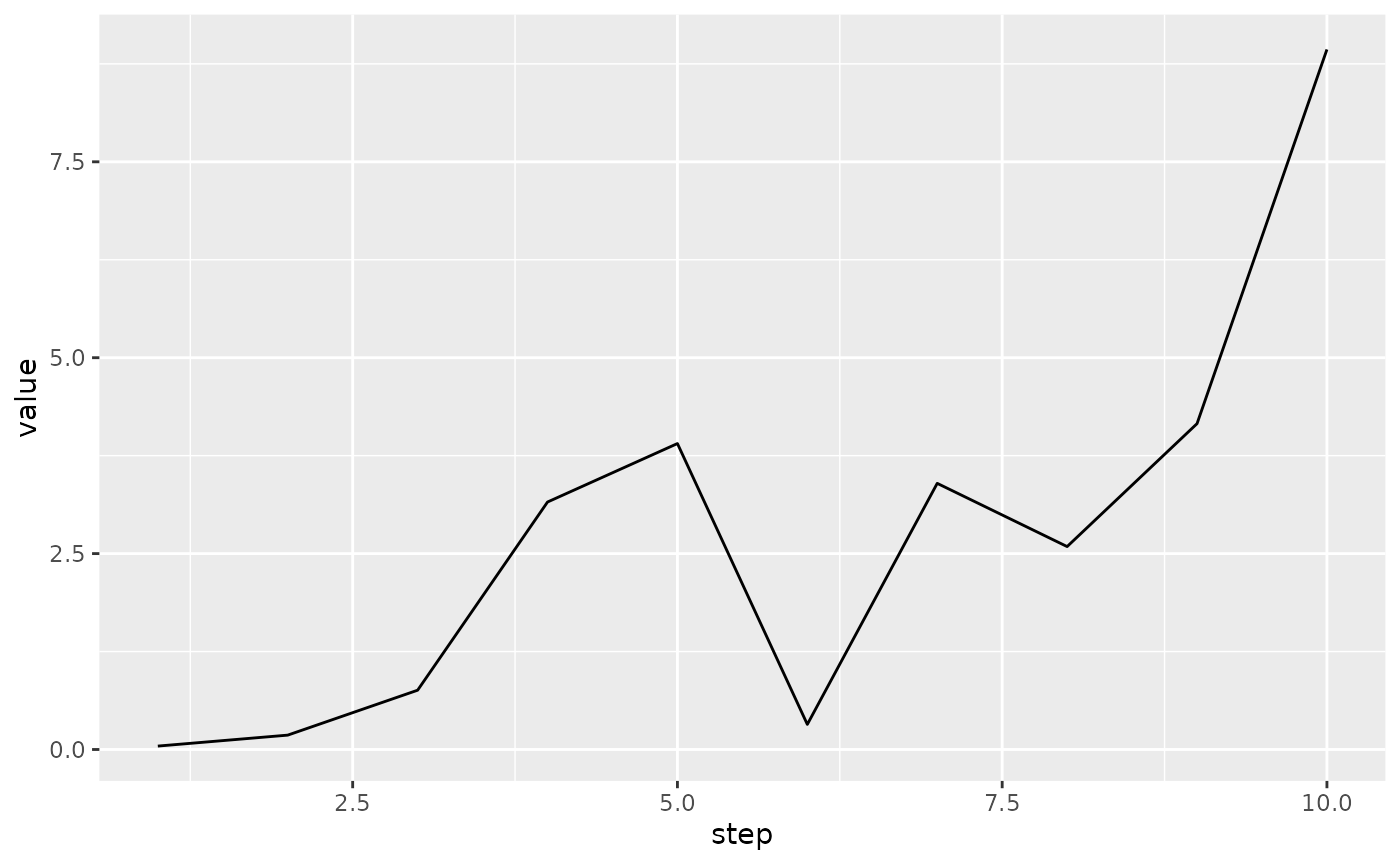
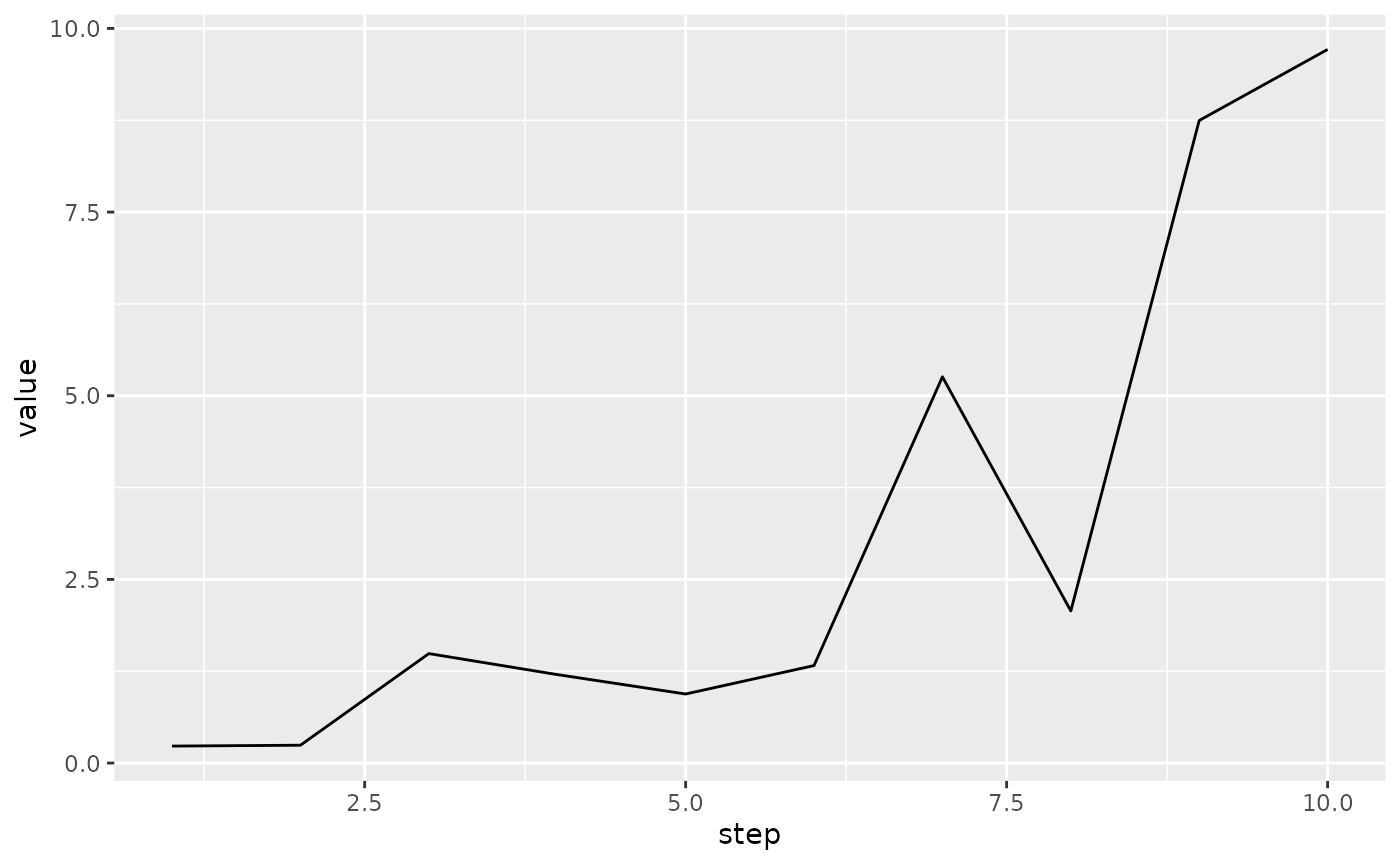
Deploying to gh-pages from @ mlverse/tfevents@5b67061c146f574ae64d9266ff5c2414bdc8fd5a 🚀

diff --git a/articles/read.html b/articles/read.html
@@ -178,52 +178,52 @@ matter the size of the summary_values vector that you pass.</p>
 <code class="sourceCode R"><span><span class="co"># we remove the first summary, as it's a text summary</span></span>
 <span><span class="fu"><a href="../reference/value.html">value</a></span><span class="op">(</span><span class="va">summaries</span><span class="op">$</span><span class="va">summary</span><span class="op">[</span><span class="op">-</span><span class="fl">1</span><span class="op">]</span>, as_list <span class="op">=</span> <span class="cn">TRUE</span><span class="op">)</span></span>
 <span><span class="co">#&gt; [[1]]</span></span>
-<span><span class="co">#&gt; [1] 0.04355804</span></span>
+<span><span class="co">#&gt; [1] 0.2312333</span></span>
 <span><span class="co">#&gt; </span></span>
 <span><span class="co">#&gt; [[2]]</span></span>
-<span><span class="co">#&gt; [1] 0.1833028</span></span>
+<span><span class="co">#&gt; [1] 0.2428884</span></span>
 <span><span class="co">#&gt; </span></span>
 <span><span class="co">#&gt; [[3]]</span></span>
-<span><span class="co">#&gt; [1] 0.7566165</span></span>
+<span><span class="co">#&gt; [1] 1.490276</span></span>
 <span><span class="co">#&gt; </span></span>
 <span><span class="co">#&gt; [[4]]</span></span>
-<span><span class="co">#&gt; [1] 3.158254</span></span>
+<span><span class="co">#&gt; [1] 1.204388</span></span>
 <span><span class="co">#&gt; </span></span>
 <span><span class="co">#&gt; [[5]]</span></span>
-<span><span class="co">#&gt; [1] 3.904415</span></span>
+<span><span class="co">#&gt; [1] 0.9399371</span></span>
 <span><span class="co">#&gt; </span></span>
 <span><span class="co">#&gt; [[6]]</span></span>
-<span><span class="co">#&gt; [1] 0.3203383</span></span>
+<span><span class="co">#&gt; [1] 1.327205</span></span>
 <span><span class="co">#&gt; </span></span>
 <span><span class="co">#&gt; [[7]]</span></span>
-<span><span class="co">#&gt; [1] 3.396516</span></span>
+<span><span class="co">#&gt; [1] 5.257648</span></span>
 <span><span class="co">#&gt; </span></span>
 <span><span class="co">#&gt; [[8]]</span></span>
-<span><span class="co">#&gt; [1] 2.589681</span></span>
+<span><span class="co">#&gt; [1] 2.070571</span></span>
 <span><span class="co">#&gt; </span></span>
 <span><span class="co">#&gt; [[9]]</span></span>
-<span><span class="co">#&gt; [1] 4.158386</span></span>
+<span><span class="co">#&gt; [1] 8.746647</span></span>
 <span><span class="co">#&gt; </span></span>
 <span><span class="co">#&gt; [[10]]</span></span>
-<span><span class="co">#&gt; [1] 8.934026</span></span></code></pre></div>
+<span><span class="co">#&gt; [1] 9.71382</span></span></code></pre></div>
 <p>If you are only interested in scalar summaries, you can use
 <code>type="scalar"</code> in <code>collect_events</code>:</p>
 <div class="sourceCode" id="cb8"><pre class="downlit sourceCode r">
 <code class="sourceCode R"><span><span class="va">scalars</span> <span class="op">&lt;-</span> <span class="fu"><a href="../reference/collect_events.html">collect_events</a></span><span class="op">(</span><span class="va">temp</span>, type <span class="op">=</span> <span class="st">"scalar"</span><span class="op">)</span></span>
 <span><span class="va">scalars</span></span>
 <span><span class="co">#&gt; <span style="color: #949494;"># A tibble: 10 × 7</span></span></span>
-<span><span class="co">#&gt;         event run    step    summary tag   plugin   value</span></span>
-<span><span class="co">#&gt;    <span style="color: #949494; font-style: italic;">&lt;tfvnts_v&gt;</span> <span style="color: #949494; font-style: italic;">&lt;chr&gt;</span> <span style="color: #949494; font-style: italic;">&lt;int&gt;</span> <span style="color: #949494; font-style: italic;">&lt;tfvnts__&gt;</span> <span style="color: #949494; font-style: italic;">&lt;chr&gt;</span> <span style="color: #949494; font-style: italic;">&lt;chr&gt;</span>    <span style="color: #949494; font-style: italic;">&lt;dbl&gt;</span></span></span>
-<span><span class="co">#&gt; <span style="color: #BCBCBC;"> 1</span>     &lt;./ 1&gt; .         1    &lt;hello&gt; hello scalars 0.043<span style="text-decoration: underline;">6</span></span></span>
-<span><span class="co">#&gt; <span style="color: #BCBCBC;"> 2</span>     &lt;./ 2&gt; .         2    &lt;hello&gt; hello scalars 0.183 </span></span>
-<span><span class="co">#&gt; <span style="color: #BCBCBC;"> 3</span>     &lt;./ 3&gt; .         3    &lt;hello&gt; hello scalars 0.757 </span></span>
-<span><span class="co">#&gt; <span style="color: #BCBCBC;"> 4</span>     &lt;./ 4&gt; .         4    &lt;hello&gt; hello scalars 3.16  </span></span>
-<span><span class="co">#&gt; <span style="color: #BCBCBC;"> 5</span>     &lt;./ 5&gt; .         5    &lt;hello&gt; hello scalars 3.90  </span></span>
-<span><span class="co">#&gt; <span style="color: #BCBCBC;"> 6</span>     &lt;./ 6&gt; .         6    &lt;hello&gt; hello scalars 0.320 </span></span>
-<span><span class="co">#&gt; <span style="color: #BCBCBC;"> 7</span>     &lt;./ 7&gt; .         7    &lt;hello&gt; hello scalars 3.40  </span></span>
-<span><span class="co">#&gt; <span style="color: #BCBCBC;"> 8</span>     &lt;./ 8&gt; .         8    &lt;hello&gt; hello scalars 2.59  </span></span>
-<span><span class="co">#&gt; <span style="color: #BCBCBC;"> 9</span>     &lt;./ 9&gt; .         9    &lt;hello&gt; hello scalars 4.16  </span></span>
-<span><span class="co">#&gt; <span style="color: #BCBCBC;">10</span>     &lt;./10&gt; .        10    &lt;hello&gt; hello scalars 8.93</span></span></code></pre></div>
+<span><span class="co">#&gt;         event run    step    summary tag   plugin  value</span></span>
+<span><span class="co">#&gt;    <span style="color: #949494; font-style: italic;">&lt;tfvnts_v&gt;</span> <span style="color: #949494; font-style: italic;">&lt;chr&gt;</span> <span style="color: #949494; font-style: italic;">&lt;int&gt;</span> <span style="color: #949494; font-style: italic;">&lt;tfvnts__&gt;</span> <span style="color: #949494; font-style: italic;">&lt;chr&gt;</span> <span style="color: #949494; font-style: italic;">&lt;chr&gt;</span>   <span style="color: #949494; font-style: italic;">&lt;dbl&gt;</span></span></span>
+<span><span class="co">#&gt; <span style="color: #BCBCBC;"> 1</span>     &lt;./ 1&gt; .         1    &lt;hello&gt; hello scalars 0.231</span></span>
+<span><span class="co">#&gt; <span style="color: #BCBCBC;"> 2</span>     &lt;./ 2&gt; .         2    &lt;hello&gt; hello scalars 0.243</span></span>
+<span><span class="co">#&gt; <span style="color: #BCBCBC;"> 3</span>     &lt;./ 3&gt; .         3    &lt;hello&gt; hello scalars 1.49 </span></span>
+<span><span class="co">#&gt; <span style="color: #BCBCBC;"> 4</span>     &lt;./ 4&gt; .         4    &lt;hello&gt; hello scalars 1.20 </span></span>
+<span><span class="co">#&gt; <span style="color: #BCBCBC;"> 5</span>     &lt;./ 5&gt; .         5    &lt;hello&gt; hello scalars 0.940</span></span>
+<span><span class="co">#&gt; <span style="color: #BCBCBC;"> 6</span>     &lt;./ 6&gt; .         6    &lt;hello&gt; hello scalars 1.33 </span></span>
+<span><span class="co">#&gt; <span style="color: #BCBCBC;"> 7</span>     &lt;./ 7&gt; .         7    &lt;hello&gt; hello scalars 5.26 </span></span>
+<span><span class="co">#&gt; <span style="color: #BCBCBC;"> 8</span>     &lt;./ 8&gt; .         8    &lt;hello&gt; hello scalars 2.07 </span></span>
+<span><span class="co">#&gt; <span style="color: #BCBCBC;"> 9</span>     &lt;./ 9&gt; .         9    &lt;hello&gt; hello scalars 8.75 </span></span>
+<span><span class="co">#&gt; <span style="color: #BCBCBC;">10</span>     &lt;./10&gt; .        10    &lt;hello&gt; hello scalars 9.71</span></span></code></pre></div>
 <p>Now, values can be expanded in the data frame and you get a ready to
 use data frame, for example:</p>
 <div class="sourceCode" id="cb9"><pre class="downlit sourceCode r">
@@ -244,9 +244,9 @@ load events in smaller batches.</p>
 <code class="sourceCode R"><span><span class="va">con</span> <span class="op">&lt;-</span> <span class="fu"><a href="../reference/collect_events.html">events_logdir</a></span><span class="op">(</span><span class="va">temp</span><span class="op">)</span></span>
 <span><span class="fu"><a href="../reference/collect_events.html">collect_events</a></span><span class="op">(</span><span class="va">con</span>, n <span class="op">=</span> <span class="fl">1</span>, type <span class="op">=</span> <span class="st">"scalar"</span><span class="op">)</span></span>
 <span><span class="co">#&gt; <span style="color: #949494;"># A tibble: 1 × 7</span></span></span>
-<span><span class="co">#&gt;        event run    step    summary tag   plugin   value</span></span>
-<span><span class="co">#&gt;   <span style="color: #949494; font-style: italic;">&lt;tfvnts_v&gt;</span> <span style="color: #949494; font-style: italic;">&lt;chr&gt;</span> <span style="color: #949494; font-style: italic;">&lt;int&gt;</span> <span style="color: #949494; font-style: italic;">&lt;tfvnts__&gt;</span> <span style="color: #949494; font-style: italic;">&lt;chr&gt;</span> <span style="color: #949494; font-style: italic;">&lt;chr&gt;</span>    <span style="color: #949494; font-style: italic;">&lt;dbl&gt;</span></span></span>
-<span><span class="co">#&gt; <span style="color: #BCBCBC;">1</span>      &lt;./1&gt; .         1    &lt;hello&gt; hello scalars 0.043<span style="text-decoration: underline;">6</span></span></span></code></pre></div>
+<span><span class="co">#&gt;        event run    step    summary tag   plugin  value</span></span>
+<span><span class="co">#&gt;   <span style="color: #949494; font-style: italic;">&lt;tfvnts_v&gt;</span> <span style="color: #949494; font-style: italic;">&lt;chr&gt;</span> <span style="color: #949494; font-style: italic;">&lt;int&gt;</span> <span style="color: #949494; font-style: italic;">&lt;tfvnts__&gt;</span> <span style="color: #949494; font-style: italic;">&lt;chr&gt;</span> <span style="color: #949494; font-style: italic;">&lt;chr&gt;</span>   <span style="color: #949494; font-style: italic;">&lt;dbl&gt;</span></span></span>
+<span><span class="co">#&gt; <span style="color: #BCBCBC;">1</span>      &lt;./1&gt; .         1    &lt;hello&gt; hello scalars 0.231</span></span></code></pre></div>
 <p>Notice that the first call to <code>collect_events</code> collected
 the first scalar summary event in the directory because of
 <code>n = 1</code>. The next call will collect the remaining ones as by
@@ -256,15 +256,15 @@ default <code>n = NULL</code>.</p>
 <span><span class="co">#&gt; <span style="color: #949494;"># A tibble: 9 × 7</span></span></span>
 <span><span class="co">#&gt;        event run    step    summary tag   plugin  value</span></span>
 <span><span class="co">#&gt;   <span style="color: #949494; font-style: italic;">&lt;tfvnts_v&gt;</span> <span style="color: #949494; font-style: italic;">&lt;chr&gt;</span> <span style="color: #949494; font-style: italic;">&lt;int&gt;</span> <span style="color: #949494; font-style: italic;">&lt;tfvnts__&gt;</span> <span style="color: #949494; font-style: italic;">&lt;chr&gt;</span> <span style="color: #949494; font-style: italic;">&lt;chr&gt;</span>   <span style="color: #949494; font-style: italic;">&lt;dbl&gt;</span></span></span>
-<span><span class="co">#&gt; <span style="color: #BCBCBC;">1</span>     &lt;./ 2&gt; .         2    &lt;hello&gt; hello scalars 0.183</span></span>
-<span><span class="co">#&gt; <span style="color: #BCBCBC;">2</span>     &lt;./ 3&gt; .         3    &lt;hello&gt; hello scalars 0.757</span></span>
-<span><span class="co">#&gt; <span style="color: #BCBCBC;">3</span>     &lt;./ 4&gt; .         4    &lt;hello&gt; hello scalars 3.16 </span></span>
-<span><span class="co">#&gt; <span style="color: #BCBCBC;">4</span>     &lt;./ 5&gt; .         5    &lt;hello&gt; hello scalars 3.90 </span></span>
-<span><span class="co">#&gt; <span style="color: #BCBCBC;">5</span>     &lt;./ 6&gt; .         6    &lt;hello&gt; hello scalars 0.320</span></span>
-<span><span class="co">#&gt; <span style="color: #BCBCBC;">6</span>     &lt;./ 7&gt; .         7    &lt;hello&gt; hello scalars 3.40 </span></span>
-<span><span class="co">#&gt; <span style="color: #BCBCBC;">7</span>     &lt;./ 8&gt; .         8    &lt;hello&gt; hello scalars 2.59 </span></span>
-<span><span class="co">#&gt; <span style="color: #BCBCBC;">8</span>     &lt;./ 9&gt; .         9    &lt;hello&gt; hello scalars 4.16 </span></span>
-<span><span class="co">#&gt; <span style="color: #BCBCBC;">9</span>     &lt;./10&gt; .        10    &lt;hello&gt; hello scalars 8.93</span></span></code></pre></div>
+<span><span class="co">#&gt; <span style="color: #BCBCBC;">1</span>     &lt;./ 2&gt; .         2    &lt;hello&gt; hello scalars 0.243</span></span>
+<span><span class="co">#&gt; <span style="color: #BCBCBC;">2</span>     &lt;./ 3&gt; .         3    &lt;hello&gt; hello scalars 1.49 </span></span>
+<span><span class="co">#&gt; <span style="color: #BCBCBC;">3</span>     &lt;./ 4&gt; .         4    &lt;hello&gt; hello scalars 1.20 </span></span>
+<span><span class="co">#&gt; <span style="color: #BCBCBC;">4</span>     &lt;./ 5&gt; .         5    &lt;hello&gt; hello scalars 0.940</span></span>
+<span><span class="co">#&gt; <span style="color: #BCBCBC;">5</span>     &lt;./ 6&gt; .         6    &lt;hello&gt; hello scalars 1.33 </span></span>
+<span><span class="co">#&gt; <span style="color: #BCBCBC;">6</span>     &lt;./ 7&gt; .         7    &lt;hello&gt; hello scalars 5.26 </span></span>
+<span><span class="co">#&gt; <span style="color: #BCBCBC;">7</span>     &lt;./ 8&gt; .         8    &lt;hello&gt; hello scalars 2.07 </span></span>
+<span><span class="co">#&gt; <span style="color: #BCBCBC;">8</span>     &lt;./ 9&gt; .         9    &lt;hello&gt; hello scalars 8.75 </span></span>
+<span><span class="co">#&gt; <span style="color: #BCBCBC;">9</span>     &lt;./10&gt; .        10    &lt;hello&gt; hello scalars 9.71</span></span></code></pre></div>
 <p>We can now log some more scalars and recollect, you will see that the
 events that were just written are now collected.</p>
 <div class="sourceCode" id="cb12"><pre class="downlit sourceCode r">
@@ -275,9 +275,9 @@ events that were just written are now collected.</p>
 <span><span class="co">#&gt; <span style="color: #949494;"># A tibble: 3 × 7</span></span></span>
 <span><span class="co">#&gt;        event run    step    summary tag   plugin  value</span></span>
 <span><span class="co">#&gt;   <span style="color: #949494; font-style: italic;">&lt;tfvnts_v&gt;</span> <span style="color: #949494; font-style: italic;">&lt;chr&gt;</span> <span style="color: #949494; font-style: italic;">&lt;int&gt;</span> <span style="color: #949494; font-style: italic;">&lt;tfvnts__&gt;</span> <span style="color: #949494; font-style: italic;">&lt;chr&gt;</span> <span style="color: #949494; font-style: italic;">&lt;chr&gt;</span>   <span style="color: #949494; font-style: italic;">&lt;dbl&gt;</span></span></span>
-<span><span class="co">#&gt; <span style="color: #BCBCBC;">1</span>     &lt;./11&gt; .        11    &lt;hello&gt; hello scalars 0.302</span></span>
-<span><span class="co">#&gt; <span style="color: #BCBCBC;">2</span>     &lt;./12&gt; .        12    &lt;hello&gt; hello scalars 0.115</span></span>
-<span><span class="co">#&gt; <span style="color: #BCBCBC;">3</span>     &lt;./13&gt; .        13    &lt;hello&gt; hello scalars 1.08</span></span></code></pre></div>
+<span><span class="co">#&gt; <span style="color: #BCBCBC;">1</span>     &lt;./11&gt; .        11    &lt;hello&gt; hello scalars 0.832</span></span>
+<span><span class="co">#&gt; <span style="color: #BCBCBC;">2</span>     &lt;./12&gt; .        12    &lt;hello&gt; hello scalars 0.419</span></span>
+<span><span class="co">#&gt; <span style="color: #BCBCBC;">3</span>     &lt;./13&gt; .        13    &lt;hello&gt; hello scalars 0.642</span></span></code></pre></div>
 <p>This interface allows you to efficiently read tfevents records
 without having them all on RAM at once, or work in a streaming way in a
 sense that a process might be writing tfevents (for example in a

diff --git a/articles/hparams.html b/articles/hparams.html
@@ -197,80 +197,80 @@ sets of hyperparameters.</p>
 <code>temp</code> will be filled with event files.</p>
 <div class="sourceCode" id="cb7"><pre class="downlit sourceCode r">
 <code class="sourceCode R"><span><span class="fu">fs</span><span class="fu">::</span><span class="fu"><a href="https://fs.r-lib.org/reference/dir_tree.html" class="external-link">dir_tree</a></span><span class="op">(</span><span class="va">temp</span><span class="op">)</span></span>
-<span><span class="co">#&gt; <span style="color: #0000BB; font-weight: bold;">/tmp/RtmprtTTw2/logdir1b3f76f87a47</span></span></span>
-<span><span class="co">#&gt; ├── <span style="color: #0000BB; font-weight: bold;">abmfkiphrpevdqq</span></span></span>
-<span><span class="co">#&gt; │   ├── events.out.tfevents.1676371809.v2</span></span>
+<span><span class="co">#&gt; <span style="color: #0000BB; font-weight: bold;">/tmp/RtmpdwRrPv/logdir212c2596d3df</span></span></span>
+<span><span class="co">#&gt; ├── <span style="color: #0000BB; font-weight: bold;">ddhgqwaunyhwjzc</span></span></span>
+<span><span class="co">#&gt; │   ├── events.out.tfevents.1677150685.v2</span></span>
 <span><span class="co">#&gt; │   ├── <span style="color: #0000BB; font-weight: bold;">train</span></span></span>
-<span><span class="co">#&gt; │   │   └── events.out.tfevents.1676371809.v2</span></span>
+<span><span class="co">#&gt; │   │   └── events.out.tfevents.1677150685.v2</span></span>
 <span><span class="co">#&gt; │   └── <span style="color: #0000BB; font-weight: bold;">valid</span></span></span>
-<span><span class="co">#&gt; │       └── events.out.tfevents.1676371809.v2</span></span>
-<span><span class="co">#&gt; ├── <span style="color: #0000BB; font-weight: bold;">bnrkdcnjwcqxktt</span></span></span>
-<span><span class="co">#&gt; │   ├── events.out.tfevents.1676371809.v2</span></span>
+<span><span class="co">#&gt; │       └── events.out.tfevents.1677150685.v2</span></span>
+<span><span class="co">#&gt; ├── events.out.tfevents.1677150683.v2</span></span>
+<span><span class="co">#&gt; ├── <span style="color: #0000BB; font-weight: bold;">exvuikegqsvarjt</span></span></span>
+<span><span class="co">#&gt; │   ├── events.out.tfevents.1677150684.v2</span></span>
 <span><span class="co">#&gt; │   ├── <span style="color: #0000BB; font-weight: bold;">train</span></span></span>
-<span><span class="co">#&gt; │   │   └── events.out.tfevents.1676371809.v2</span></span>
+<span><span class="co">#&gt; │   │   └── events.out.tfevents.1677150684.v2</span></span>
 <span><span class="co">#&gt; │   └── <span style="color: #0000BB; font-weight: bold;">valid</span></span></span>
-<span><span class="co">#&gt; │       └── events.out.tfevents.1676371809.v2</span></span>
-<span><span class="co">#&gt; ├── <span style="color: #0000BB; font-weight: bold;">bwekgamzmprqnib</span></span></span>
-<span><span class="co">#&gt; │   ├── events.out.tfevents.1676371809.v2</span></span>
+<span><span class="co">#&gt; │       └── events.out.tfevents.1677150684.v2</span></span>
+<span><span class="co">#&gt; ├── <span style="color: #0000BB; font-weight: bold;">hglhuizmjijfoov</span></span></span>
+<span><span class="co">#&gt; │   ├── events.out.tfevents.1677150684.v2</span></span>
 <span><span class="co">#&gt; │   ├── <span style="color: #0000BB; font-weight: bold;">train</span></span></span>
-<span><span class="co">#&gt; │   │   └── events.out.tfevents.1676371809.v2</span></span>
+<span><span class="co">#&gt; │   │   └── events.out.tfevents.1677150684.v2</span></span>
 <span><span class="co">#&gt; │   └── <span style="color: #0000BB; font-weight: bold;">valid</span></span></span>
-<span><span class="co">#&gt; │       └── events.out.tfevents.1676371809.v2</span></span>
-<span><span class="co">#&gt; ├── <span style="color: #0000BB; font-weight: bold;">ekxafwxrcrviani</span></span></span>
-<span><span class="co">#&gt; │   ├── events.out.tfevents.1676371808.v2</span></span>
+<span><span class="co">#&gt; │       └── events.out.tfevents.1677150684.v2</span></span>
+<span><span class="co">#&gt; ├── <span style="color: #0000BB; font-weight: bold;">hmtwnmqoqeyugbh</span></span></span>
+<span><span class="co">#&gt; │   ├── events.out.tfevents.1677150684.v2</span></span>
 <span><span class="co">#&gt; │   ├── <span style="color: #0000BB; font-weight: bold;">train</span></span></span>
-<span><span class="co">#&gt; │   │   └── events.out.tfevents.1676371808.v2</span></span>
+<span><span class="co">#&gt; │   │   └── events.out.tfevents.1677150684.v2</span></span>
 <span><span class="co">#&gt; │   └── <span style="color: #0000BB; font-weight: bold;">valid</span></span></span>
-<span><span class="co">#&gt; │       └── events.out.tfevents.1676371808.v2</span></span>
-<span><span class="co">#&gt; ├── events.out.tfevents.1676371808.v2</span></span>
-<span><span class="co">#&gt; ├── <span style="color: #0000BB; font-weight: bold;">ewezkfgwfamrqjd</span></span></span>
-<span><span class="co">#&gt; │   ├── events.out.tfevents.1676371809.v2</span></span>
+<span><span class="co">#&gt; │       └── events.out.tfevents.1677150684.v2</span></span>
+<span><span class="co">#&gt; ├── <span style="color: #0000BB; font-weight: bold;">jwvntztstbmxnbp</span></span></span>
+<span><span class="co">#&gt; │   ├── events.out.tfevents.1677150683.v2</span></span>
 <span><span class="co">#&gt; │   ├── <span style="color: #0000BB; font-weight: bold;">train</span></span></span>
-<span><span class="co">#&gt; │   │   └── events.out.tfevents.1676371809.v2</span></span>
+<span><span class="co">#&gt; │   │   └── events.out.tfevents.1677150683.v2</span></span>
 <span><span class="co">#&gt; │   └── <span style="color: #0000BB; font-weight: bold;">valid</span></span></span>
-<span><span class="co">#&gt; │       └── events.out.tfevents.1676371809.v2</span></span>
-<span><span class="co">#&gt; ├── <span style="color: #0000BB; font-weight: bold;">qahkznejlvgdhlb</span></span></span>
-<span><span class="co">#&gt; │   ├── events.out.tfevents.1676371809.v2</span></span>
+<span><span class="co">#&gt; │       └── events.out.tfevents.1677150683.v2</span></span>
+<span><span class="co">#&gt; ├── <span style="color: #0000BB; font-weight: bold;">kfzwnvoddnphdzu</span></span></span>
+<span><span class="co">#&gt; │   ├── events.out.tfevents.1677150685.v2</span></span>
 <span><span class="co">#&gt; │   ├── <span style="color: #0000BB; font-weight: bold;">train</span></span></span>
-<span><span class="co">#&gt; │   │   └── events.out.tfevents.1676371809.v2</span></span>
+<span><span class="co">#&gt; │   │   └── events.out.tfevents.1677150685.v2</span></span>
 <span><span class="co">#&gt; │   └── <span style="color: #0000BB; font-weight: bold;">valid</span></span></span>
-<span><span class="co">#&gt; │       └── events.out.tfevents.1676371809.v2</span></span>
-<span><span class="co">#&gt; ├── <span style="color: #0000BB; font-weight: bold;">srjibzgmsuktrud</span></span></span>
-<span><span class="co">#&gt; │   ├── events.out.tfevents.1676371810.v2</span></span>
+<span><span class="co">#&gt; │       └── events.out.tfevents.1677150685.v2</span></span>
+<span><span class="co">#&gt; ├── <span style="color: #0000BB; font-weight: bold;">mwwsnyriroejncn</span></span></span>
+<span><span class="co">#&gt; │   ├── events.out.tfevents.1677150685.v2</span></span>
 <span><span class="co">#&gt; │   ├── <span style="color: #0000BB; font-weight: bold;">train</span></span></span>
-<span><span class="co">#&gt; │   │   └── events.out.tfevents.1676371810.v2</span></span>
+<span><span class="co">#&gt; │   │   └── events.out.tfevents.1677150685.v2</span></span>
 <span><span class="co">#&gt; │   └── <span style="color: #0000BB; font-weight: bold;">valid</span></span></span>
-<span><span class="co">#&gt; │       └── events.out.tfevents.1676371810.v2</span></span>
-<span><span class="co">#&gt; ├── <span style="color: #0000BB; font-weight: bold;">vkhzomedjthpdwu</span></span></span>
-<span><span class="co">#&gt; │   ├── events.out.tfevents.1676371810.v2</span></span>
+<span><span class="co">#&gt; │       └── events.out.tfevents.1677150685.v2</span></span>
+<span><span class="co">#&gt; ├── <span style="color: #0000BB; font-weight: bold;">nklvpbqnvywybuk</span></span></span>
+<span><span class="co">#&gt; │   ├── events.out.tfevents.1677150684.v2</span></span>
 <span><span class="co">#&gt; │   ├── <span style="color: #0000BB; font-weight: bold;">train</span></span></span>
-<span><span class="co">#&gt; │   │   └── events.out.tfevents.1676371810.v2</span></span>
+<span><span class="co">#&gt; │   │   └── events.out.tfevents.1677150684.v2</span></span>
 <span><span class="co">#&gt; │   └── <span style="color: #0000BB; font-weight: bold;">valid</span></span></span>
-<span><span class="co">#&gt; │       └── events.out.tfevents.1676371810.v2</span></span>
-<span><span class="co">#&gt; ├── <span style="color: #0000BB; font-weight: bold;">voapmzcxvuilfjt</span></span></span>
-<span><span class="co">#&gt; │   ├── events.out.tfevents.1676371808.v2</span></span>
+<span><span class="co">#&gt; │       └── events.out.tfevents.1677150684.v2</span></span>
+<span><span class="co">#&gt; ├── <span style="color: #0000BB; font-weight: bold;">tnuaysklxrdpwma</span></span></span>
+<span><span class="co">#&gt; │   ├── events.out.tfevents.1677150685.v2</span></span>
 <span><span class="co">#&gt; │   ├── <span style="color: #0000BB; font-weight: bold;">train</span></span></span>
-<span><span class="co">#&gt; │   │   └── events.out.tfevents.1676371808.v2</span></span>
+<span><span class="co">#&gt; │   │   └── events.out.tfevents.1677150685.v2</span></span>
 <span><span class="co">#&gt; │   └── <span style="color: #0000BB; font-weight: bold;">valid</span></span></span>
-<span><span class="co">#&gt; │       └── events.out.tfevents.1676371808.v2</span></span>
-<span><span class="co">#&gt; ├── <span style="color: #0000BB; font-weight: bold;">vzdthnwwfohispn</span></span></span>
-<span><span class="co">#&gt; │   ├── events.out.tfevents.1676371810.v2</span></span>
+<span><span class="co">#&gt; │       └── events.out.tfevents.1677150685.v2</span></span>
+<span><span class="co">#&gt; ├── <span style="color: #0000BB; font-weight: bold;">uqofsnmlczoqszn</span></span></span>
+<span><span class="co">#&gt; │   ├── events.out.tfevents.1677150684.v2</span></span>
 <span><span class="co">#&gt; │   ├── <span style="color: #0000BB; font-weight: bold;">train</span></span></span>
-<span><span class="co">#&gt; │   │   └── events.out.tfevents.1676371810.v2</span></span>
+<span><span class="co">#&gt; │   │   └── events.out.tfevents.1677150684.v2</span></span>
 <span><span class="co">#&gt; │   └── <span style="color: #0000BB; font-weight: bold;">valid</span></span></span>
-<span><span class="co">#&gt; │       └── events.out.tfevents.1676371810.v2</span></span>
-<span><span class="co">#&gt; ├── <span style="color: #0000BB; font-weight: bold;">wylowcdxgddzhrd</span></span></span>
-<span><span class="co">#&gt; │   ├── events.out.tfevents.1676371808.v2</span></span>
+<span><span class="co">#&gt; │       └── events.out.tfevents.1677150684.v2</span></span>
+<span><span class="co">#&gt; ├── <span style="color: #0000BB; font-weight: bold;">vlqbpctlajmkufr</span></span></span>
+<span><span class="co">#&gt; │   ├── events.out.tfevents.1677150684.v2</span></span>
 <span><span class="co">#&gt; │   ├── <span style="color: #0000BB; font-weight: bold;">train</span></span></span>
-<span><span class="co">#&gt; │   │   └── events.out.tfevents.1676371808.v2</span></span>
+<span><span class="co">#&gt; │   │   └── events.out.tfevents.1677150684.v2</span></span>
 <span><span class="co">#&gt; │   └── <span style="color: #0000BB; font-weight: bold;">valid</span></span></span>
-<span><span class="co">#&gt; │       └── events.out.tfevents.1676371808.v2</span></span>
-<span><span class="co">#&gt; └── <span style="color: #0000BB; font-weight: bold;">xwfoeyklsjzrxbg</span></span></span>
-<span><span class="co">#&gt;     ├── events.out.tfevents.1676371808.v2</span></span>
+<span><span class="co">#&gt; │       └── events.out.tfevents.1677150684.v2</span></span>
+<span><span class="co">#&gt; └── <span style="color: #0000BB; font-weight: bold;">zlpmqpvgzamxhdm</span></span></span>
+<span><span class="co">#&gt;     ├── events.out.tfevents.1677150683.v2</span></span>
 <span><span class="co">#&gt;     ├── <span style="color: #0000BB; font-weight: bold;">train</span></span></span>
-<span><span class="co">#&gt;     │   └── events.out.tfevents.1676371808.v2</span></span>
+<span><span class="co">#&gt;     │   └── events.out.tfevents.1677150683.v2</span></span>
 <span><span class="co">#&gt;     └── <span style="color: #0000BB; font-weight: bold;">valid</span></span></span>
-<span><span class="co">#&gt;         └── events.out.tfevents.1676371808.v2</span></span></code></pre></div>
+<span><span class="co">#&gt;         └── events.out.tfevents.1677150683.v2</span></span></code></pre></div>
 <p>Finally, we can visualize the experiment results in TensorBoard:</p>
 <div class="sourceCode" id="cb8"><pre class="downlit sourceCode r">
 <code class="sourceCode R"><span><span class="fu">tensorflow</span><span class="fu">::</span><span class="fu"><a href="https://rdrr.io/pkg/tensorflow/man/tensorboard.html" class="external-link">tensorboard</a></span><span class="op">(</span><span class="va">temp</span>, port <span class="op">=</span> <span class="fl">6060</span><span class="op">)</span></span>

diff --git a/reference/collect_events.html b/reference/collect_events.html
@@ -135,13 +135,13 @@ to read further events later.</p></li>
 <span class="r-in"><span><span class="co"># collect only scalar events</span></span></span>
 <span class="r-in"><span><span class="fu">collect_events</span><span class="op">(</span><span class="va">temp</span>, type <span class="op">=</span> <span class="st">"scalar"</span><span class="op">)</span></span></span>
 <span class="r-out co"><span class="r-pr">#&gt;</span> <span style="color: #949494;"># A tibble: 5 × 7</span></span>
-<span class="r-out co"><span class="r-pr">#&gt;</span>        event run    step    summary tag    plugin  value</span>
-<span class="r-out co"><span class="r-pr">#&gt;</span>   <span style="color: #949494; font-style: italic;">&lt;tfvnts_v&gt;</span> <span style="color: #949494; font-style: italic;">&lt;chr&gt;</span> <span style="color: #949494; font-style: italic;">&lt;int&gt;</span> <span style="color: #949494; font-style: italic;">&lt;tfvnts__&gt;</span> <span style="color: #949494; font-style: italic;">&lt;chr&gt;</span>  <span style="color: #949494; font-style: italic;">&lt;chr&gt;</span>   <span style="color: #949494; font-style: italic;">&lt;dbl&gt;</span></span>
-<span class="r-out co"><span class="r-pr">#&gt;</span> <span style="color: #BCBCBC;">1</span>      &lt;./0&gt; .         0   &lt;my_log&gt; my_log scalars 0.819</span>
-<span class="r-out co"><span class="r-pr">#&gt;</span> <span style="color: #BCBCBC;">2</span>      &lt;./1&gt; .         1   &lt;my_log&gt; my_log scalars 0.220</span>
-<span class="r-out co"><span class="r-pr">#&gt;</span> <span style="color: #BCBCBC;">3</span>      &lt;./2&gt; .         2   &lt;my_log&gt; my_log scalars 0.484</span>
-<span class="r-out co"><span class="r-pr">#&gt;</span> <span style="color: #BCBCBC;">4</span>      &lt;./3&gt; .         3   &lt;my_log&gt; my_log scalars 0.916</span>
-<span class="r-out co"><span class="r-pr">#&gt;</span> <span style="color: #BCBCBC;">5</span>      &lt;./4&gt; .         4   &lt;my_log&gt; my_log scalars 0.251</span>
+<span class="r-out co"><span class="r-pr">#&gt;</span>        event run    step    summary tag    plugin   value</span>
+<span class="r-out co"><span class="r-pr">#&gt;</span>   <span style="color: #949494; font-style: italic;">&lt;tfvnts_v&gt;</span> <span style="color: #949494; font-style: italic;">&lt;chr&gt;</span> <span style="color: #949494; font-style: italic;">&lt;int&gt;</span> <span style="color: #949494; font-style: italic;">&lt;tfvnts__&gt;</span> <span style="color: #949494; font-style: italic;">&lt;chr&gt;</span>  <span style="color: #949494; font-style: italic;">&lt;chr&gt;</span>    <span style="color: #949494; font-style: italic;">&lt;dbl&gt;</span></span>
+<span class="r-out co"><span class="r-pr">#&gt;</span> <span style="color: #BCBCBC;">1</span>      &lt;./0&gt; .         0   &lt;my_log&gt; my_log scalars 0.223 </span>
+<span class="r-out co"><span class="r-pr">#&gt;</span> <span style="color: #BCBCBC;">2</span>      &lt;./1&gt; .         1   &lt;my_log&gt; my_log scalars 0.215 </span>
+<span class="r-out co"><span class="r-pr">#&gt;</span> <span style="color: #BCBCBC;">3</span>      &lt;./2&gt; .         2   &lt;my_log&gt; my_log scalars 0.283 </span>
+<span class="r-out co"><span class="r-pr">#&gt;</span> <span style="color: #BCBCBC;">4</span>      &lt;./3&gt; .         3   &lt;my_log&gt; my_log scalars 0.073<span style="text-decoration: underline;">3</span></span>
+<span class="r-out co"><span class="r-pr">#&gt;</span> <span style="color: #BCBCBC;">5</span>      &lt;./4&gt; .         4   &lt;my_log&gt; my_log scalars 0.136 </span>
 <span class="r-in"><span></span></span>
 </code></pre></div>
     </div>

diff --git a/reference/get_default_logdir.html b/reference/get_default_logdir.html
@@ -115,7 +115,7 @@ at every call. These functions allow you to query and the current logdir.</p>
 <span class="r-in"><span><span class="fu">with_logdir</span><span class="op">(</span><span class="va">temp</span>, <span class="op">{</span></span></span>
 <span class="r-in"><span> <span class="fu"><a href="https://rdrr.io/r/base/print.html" class="external-link">print</a></span><span class="op">(</span><span class="fu">get_default_logdir</span><span class="op">(</span><span class="op">)</span><span class="op">)</span></span></span>
 <span class="r-in"><span><span class="op">}</span><span class="op">)</span></span></span>
-<span class="r-out co"><span class="r-pr">#&gt;</span> [1] "/tmp/RtmpDetQge/file19a17d0a0946"</span>
+<span class="r-out co"><span class="r-pr">#&gt;</span> [1] "/tmp/Rtmp8cujMF/file1f8b273cdbc0"</span>
 </code></pre></div>
     </div>
   </main><aside class="col-md-3"><nav id="toc"><h2>On this page</h2>

diff --git a/reference/value.html b/reference/value.html
@@ -119,7 +119,7 @@ scalar.</p>
 <span class="r-in"><span><span class="co"># iterate over all events</span></span></span>
 <span class="r-in"><span><span class="va">summary</span> <span class="op">&lt;-</span> <span class="fu"><a href="collect_events.html">collect_events</a></span><span class="op">(</span><span class="va">temp</span>, n <span class="op">=</span> <span class="fl">1</span>, type <span class="op">=</span> <span class="st">"summary"</span><span class="op">)</span></span></span>
 <span class="r-in"><span><span class="fu">value</span><span class="op">(</span><span class="va">summary</span><span class="op">$</span><span class="va">summary</span><span class="op">)</span></span></span>
-<span class="r-out co"><span class="r-pr">#&gt;</span> [1] 0.2800431</span>
+<span class="r-out co"><span class="r-pr">#&gt;</span> [1] 0.7595013</span>
 <span class="r-in"><span></span></span>
 </code></pre></div>
     </div>
